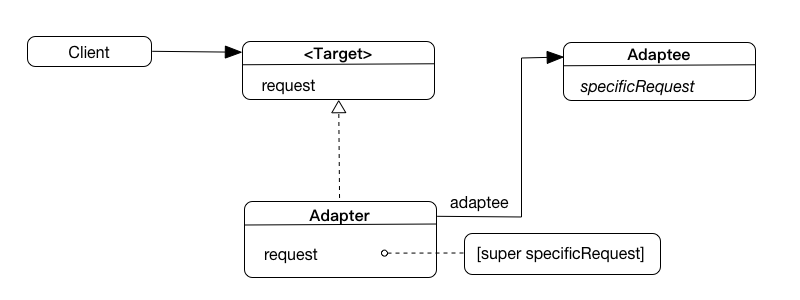
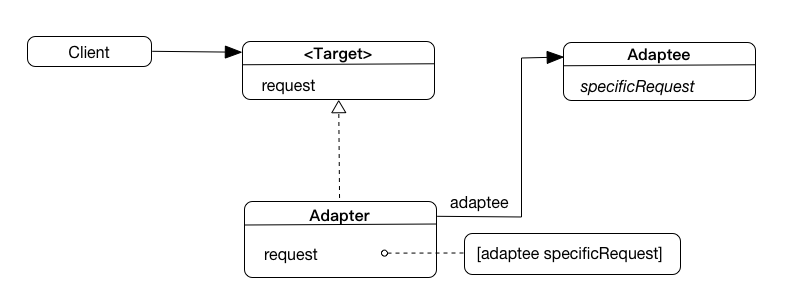
Adapter

Changed region(s): [[0.5938, 0.78, 0.8438, 0.87], [0.8125, 0.9, 0.8438, 0.93]]

diff --git a/_drafts/2016-09-20-Adapter.md b/_drafts/2016-09-20-Adapter.md
@@ -32,239 +32,107 @@ comments: true
 
 ![Adapter](https://lettleprince.github.io/images/20160920-Adapter/Adapter1.png)
 
+`Target`和`Adapter`之间的关系与类适配器相同，而`Adapter`与`Adaptee`之间的关系从“属于”变成了“包含”。这种关系下，`Adapter`需要保持一个对`Adaptee`的引用。在`request`方法中，`Adapter`发送`[adaptee specficRequest]`消息给引用`adaptee`，以间接访问它的行为，然后实现客户端请求的其余部分。由于`Adapter`与`Adaptee`之间是一种“包含”关系，用`Adapter`去适配`Adaptee`的子类也没什么问题。
+
+## 类适配器与对象适配器的对比
+
+类适配器与对象适配器是实现适配器模式的不同方式，但是达成了同样的目的。
+
+|**类适配器**|**对象适配器**|
+|---|---|
+|只针对单一的具体`Adaptee`类，<br>把`Adaptee`适配到`Target`|可以适配多个`Adaptee`及其子类|
+|易于重载`Adaptee`的行为，因为<br>是通过直接的子类化进行的适配|难以重载`Adaptee`的行为，需要<br>借助于子类的对象而不是`Adaptee`本身|
+|只有一个`Adapter`对象，无需额<br>外的指针间接访问`Adaptee`|需要额外的指针以间接访问<br>`Adaptee`并适配其行为|
+
+> 显然，代理(Delegate)模式属于对象适配器。
+
 ## 使用场景
 
-- 类只能有一个实例，而且必须从一个为人熟知的访问点对其进行访问，比如[工厂方法](http://ibloodline.com/articles/2016/09/06/factory.html)。
+- 已有类的接口与需求不匹配。
 
-- 这个唯一的实例只能通过子类化进行扩展，而且扩展的对象不会破坏客户端代码。
+- 想要一个可复用的类，该类能够同可能带有不兼容接口的其他类协作。
 
-优点：
+- 需要适配一个类的几个不同子类，可是每一个子类去子类化一个类适配器又不现实。那么可以使用对象适配器(也就是代理)来适配其父类的接口。
 
-　　1、提供了对唯一实例的受控访问。
+## 使用OC协议实现适配器模式
 
-　　2、由于在系统内存中只存在一个对象，因此可以节约系统资源，对于一些需要频繁创建和销毁的对象单例模式无疑可以提高系统的性能。
+### 类适配器
 
-　　3.因为单例模式的类控制了实例化的过程，所以类可以更加灵活修改实例化过程。
-
-缺点：
-
-　　1、由于单利模式中没有抽象层，因此单例类的扩展有很大的困难。
-
-　　2、单例类的职责过重，在一定程度上违背了“单一职责原则”。
-
-## 使用方式
-
-先看`C++`中的实现：
-
-```cpp
-class Singlenton
-{
-public:
-    static Singlenton *Instance();
-    
-protected:
-    Singlenton();
-    
-private:
-    static Singlenton *_instance;
-};
-
-Singlenton *Singlenton::_instance = NULL;
-
-Singlenton *Singlenton::Instance()
-{
-    if (_instance == NULL) {
-        _instance = new Singlenton;
-    }
-    return _instance;
-}
-```
-
-`OC`下：
+![Adapter](https://lettleprince.github.io/images/20160920-Adapter/Adapter2.png)
 
 ```objc
-//Singleton.h
-@interface Singleton : NSObject
-+ (Singleton *)sharedInstance;
+//Charger.h 普通充电器
+@interface Charger : NSObject
+- (void)charge;//普通充电
 @end
 
-//Singleton.m
-@implementation Singleton
-static Singleton * sharedSingleton = nil;
-+ (Singleton *) sharedInstance {
-    if (sharedSingleton == nil) {
-        sharedSingleton = [[Singleton alloc] init];
-    }
-    return sharedSingleton;
+//Charger.m
+@implementation Charger
+- (void)charge {
+    NSLog(@"充电中");
 }
 @end
-```
 
-上面的实现是有问题的。首先，如果客户端使用不同的方式来初始化单例，则有可能出现多个实例的情况。另外，这样的实现也不是线程安全的。改进：
-
-```objc
-@implementation Singleton
-static id sharedSingleton = nil;
-+ (id)allocWithZone:(struct _NSZone *)zone {
-    if (!sharedSingleton) {
-        static dispatch_once_t onceToken;
-        dispatch_once(&onceToken, ^{
-            sharedSingleton = [super allocWithZone:zone];
-        });
-    }
-    return sharedSingleton;
-}
-- (id)init {
-    static dispatch_once_t onceToken;
-    dispatch_once(&onceToken, ^{
-        sharedSingleton = [super init];
-    });
-    return sharedSingleton;
-}
-+ (instancetype)sharedInstance {
-    return [[self alloc] init];
-}
-+ (id)copyWithZone:(struct _NSZone *)zone {
-    return sharedSingleton;
-}
-+ (id)mutableCopyWithZone:(struct _NSZone *)zone {
-    return sharedSingleton;
-}
-@end
-```
-
-当然对于懒癌患者来讲，每个单例都写这样的实现实在太不可接受了，我们把它抽取成宏：
-
-```objc
-// .h文件的实现
-#define SingletonH(methodName) + (instancetype)shared##methodName;
-
-// .m文件的实现
-#if __has_feature(objc_arc) // 是ARC
-#define SingletonM(methodName) \
-static id _instace = nil; \
-+ (id)allocWithZone:(struct _NSZone *)zone \
-{ \
-if (_instace == nil) { \
-static dispatch_once_t onceToken; \
-dispatch_once(&onceToken, ^{ \
-_instace = [super allocWithZone:zone]; \
-}); \
-} \
-return _instace; \
-} \
-\
-- (id)init \
-{ \
-static dispatch_once_t onceToken; \
-dispatch_once(&onceToken, ^{ \
-_instace = [super init]; \
-}); \
-return _instace; \
-} \
-\
-+ (instancetype)shared##methodName \
-{ \
-return [[self alloc] init]; \
-} \
-+ (id)copyWithZone:(struct _NSZone *)zone \
-{ \
-return _instace; \
-} \
-\
-+ (id)mutableCopyWithZone:(struct _NSZone *)zone \
-{ \
-return _instace; \
-}
-
-#else // 不是ARC
-
-#define SingletonM(methodName) \
-static id _instace = nil; \
-+ (id)allocWithZone:(struct _NSZone *)zone \
-{ \
-if (_instace == nil) { \
-static dispatch_once_t onceToken; \
-dispatch_once(&onceToken, ^{ \
-_instace = [super allocWithZone:zone]; \
-}); \
-} \
-return _instace; \
-} \
-\
-- (id)init \
-{ \
-static dispatch_once_t onceToken; \
-dispatch_once(&onceToken, ^{ \
-_instace = [super init]; \
-}); \
-return _instace; \
-} \
-\
-+ (instancetype)shared##methodName \
-{ \
-return [[self alloc] init]; \
-} \
-\
-- (oneway void)release \
-{ \
-\
-} \
-\
-- (id)retain \
-{ \
-return self; \
-} \
-\
-- (NSUInteger)retainCount \
-{ \
-return 1; \
-} \
-+ (id)copyWithZone:(struct _NSZone *)zone \
-{ \
-return _instace; \
-} \
-\
-+ (id)mutableCopyWithZone:(struct _NSZone *)zone \
-{ \
-return _instace; \
-}
-```
-
-使用：
-
-```objc
-//SmartSingleton.h
-@interface SmartSingleton : NSObject
-SingletonH(SmartSingleton)
+//LightningChargerAdapterProtocol.h 适配接口
+@protocol LightningChargerAdapterProtocol <NSObject>
+@required
+- (void)chargeWithLightning;//声明适配方法
 @end
 
-//SmartSingleton.m
-@implementation SmartSingleton
-SingletonM(SmartSingleton)
+//LightningChargerAdapter.h  适配器，继承Charger，实现LightningChargerAdapterProtocol
+@interface LightningChargerAdapter : Charger <LightningChargerAdapterProtocol>
+@end
+
+//LightningChargerAdapter.m
+@implementation LightningChargerAdapter
+- (void)chargeWithLightning {
+    NSLog(@"使用Lightning");
+    [super charge];//调用父类的充电方法
+}
 @end
 
 //客户端调用
-Singleton *singleton = [Singleton sharedInstance];
-NSLog(@"%@", singleton);
-    
-SmartSingleton *smartSingleton = [SmartSingleton sharedSmartSingleton];
-NSLog(@"%@", smartSingleton);
+LightningChargerAdapter *charger = [[LightningChargerAdapter alloc] init];
+[charger chargeWithLightning];
 ```
 
-## `Cocoa`中的单例
+### 对象适配器
 
-`Cocoa`中最常见的单例类是`UIApplication`类。它提供了一个控制并协调应用程序的集中点。
+如果我们将`MicroUSB`接口的适配器只是作为充电器的一个组成部分，这样就实现了对象适配器。
 
-每个应用程序有且只有一个`UIApplication`实例。它由`UIApplicationMain`函数在应用程序启动时创建为单例对象。之后，对同一`UIApplication`实例可以通过`sharedUIApplication`类方法进行访问。
+```objc
+//MicroUSBAdapterProtocol
+@protocol MicroUSBAdapterProtocol <NSObject>
+@required
+- (void)chargeWithMicroUSB;
+@end
 
-`UIApplication`对象为应用程序处理许多内务管理任务(`housekeeping task`)，包括传入的用户时间的最初路由，以及为`UIControl`分发动作消息给合适的目标对象。它还卫华应用程序中打开的所有`UIWindow`对象的列表。应用程序对象总是被分配一个`UIApplicationDelegate`对象。应用程序将把重要的运行时事件通知给它，比如`iOS`应用程序中的应用程序启动、内存不足警告、应用程序终止和后台进程执行。这让代理(`delegate`)有机会作出适当的响应。
+//MicroUSBAdapter.h
+@interface MicroUSBAdapter : NSObject
+- (void)chargeWithMicroUSB;
+@end
 
-`NSUserDefault`、`NSFileManager`等也是常见的单例实现。
+//MicroUSBAdapter.m
+@interface MicroUSBAdapter() <MicroUSBAdapterProtocol>
+@property (nonatomic, strong) Charger *charger;//持有Charger属性
+@end
+
+@implementation MicroUSBAdapter
+- (void)chargeWithMicroUSB {
+    NSLog(@"使用MicroUSB");
+    self.charger = [[Charger alloc] init];
+    [self.charger charge];
+}
+@end
+```
+
+## `Cocoa`中更复杂的应用
+
+
 
 ## 总结
 
- 只要应用程序需要用集中式的类来协调其服务，这个类就应生成单一的实例。
+适配器模式的有点很多，如：将客户端与适配者解耦、使客户端调用更加简明（只需要调用定义的接口方法）。但同样也有缺点，在写适配器的时候为适应目标接口，可能会有比较复杂实现过程；无端端多出许多的类，使结构又复杂了一些。所以在使用的时候需要因情况而定，不要生搬硬套盲目的使用设计模式。
 
 ### 代码
 
